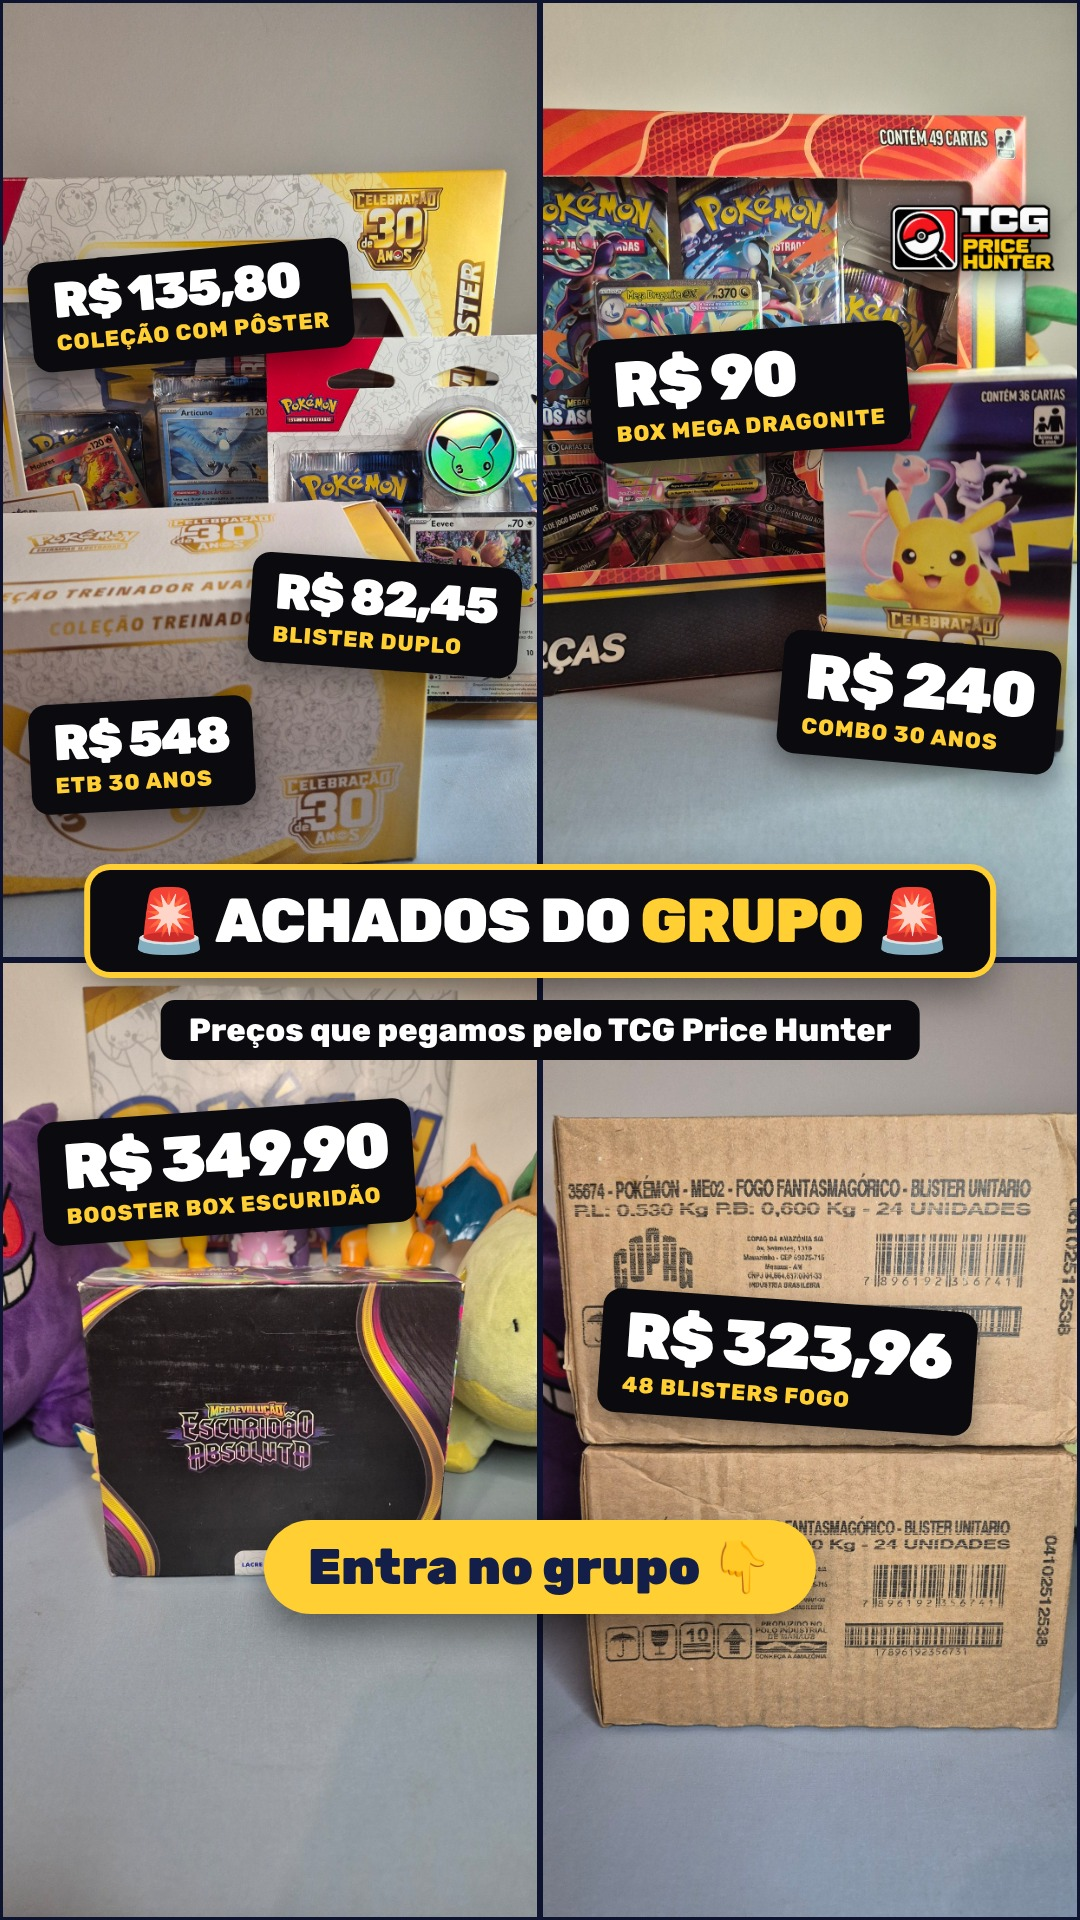
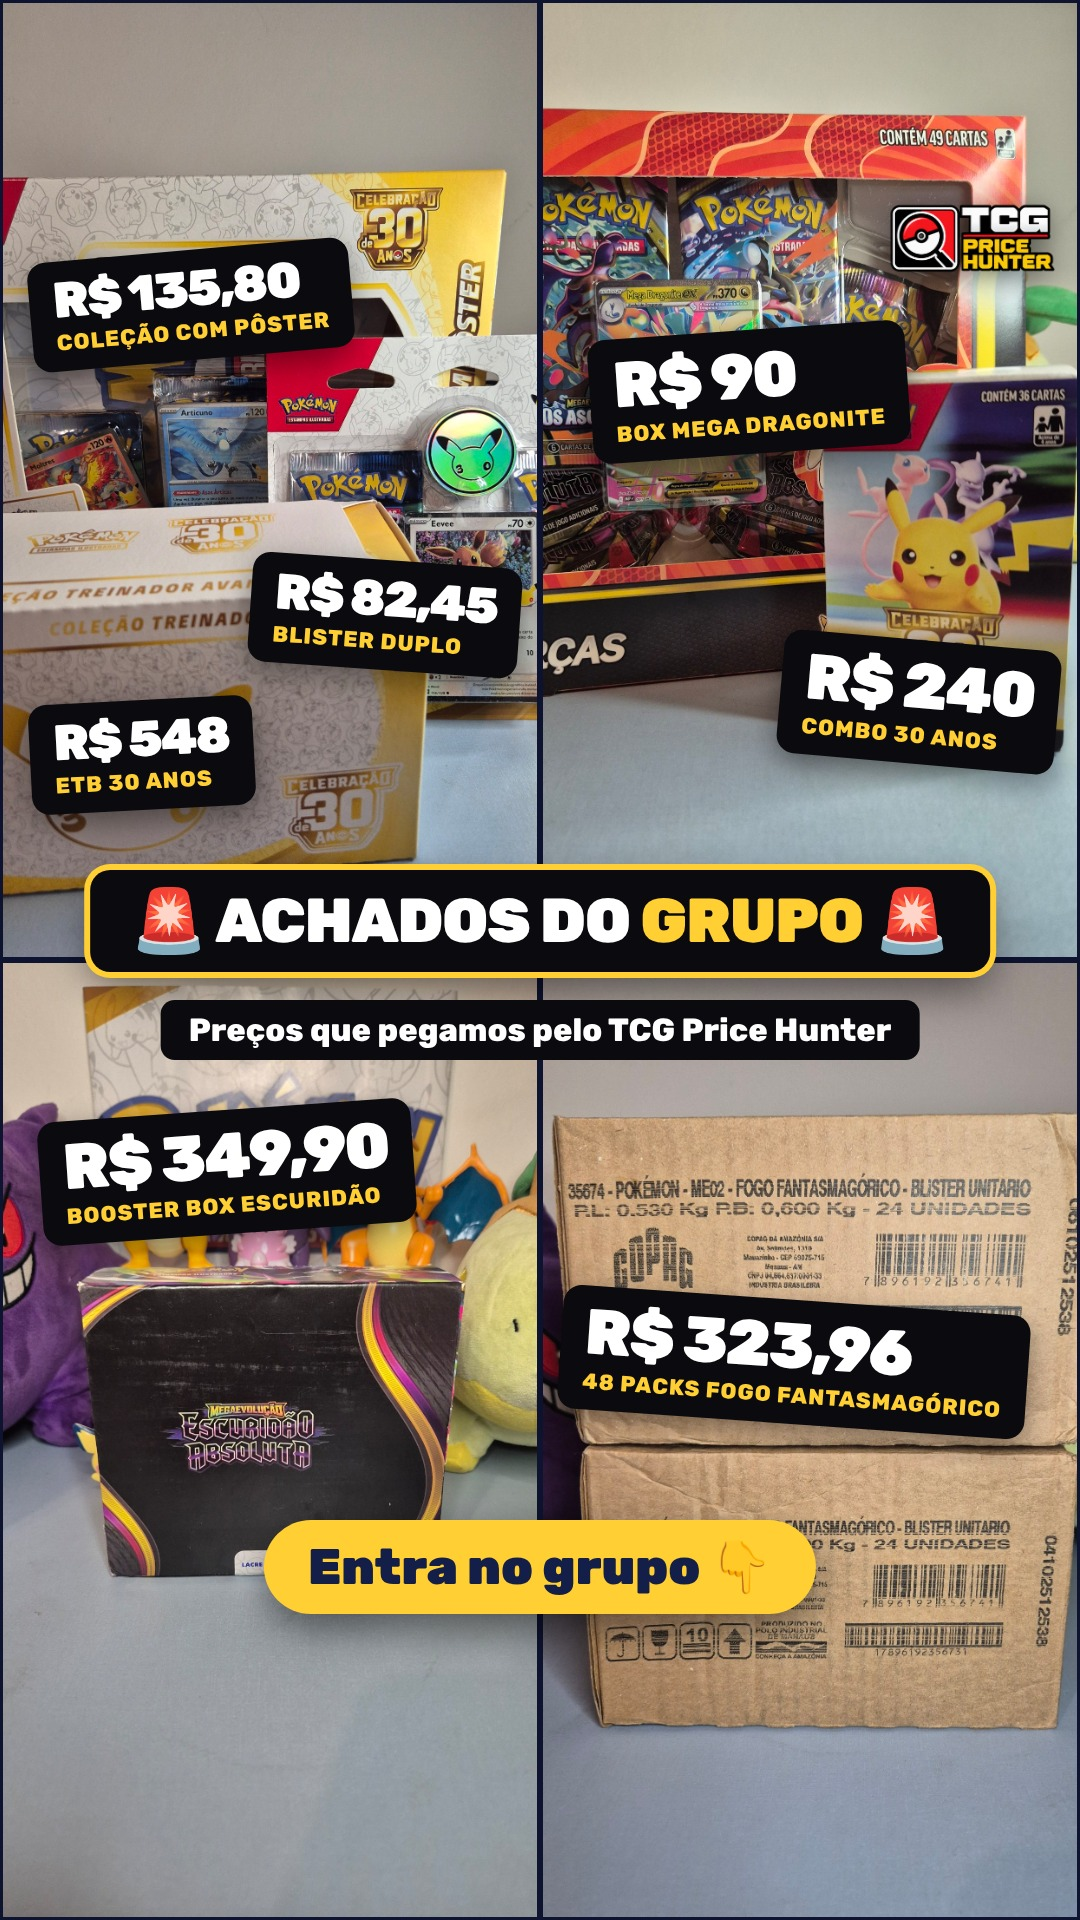
social: story achados — 48 packs
Claude-Session: https://claude.ai/code/session_01VA6kxpmt2AkLti5TivkGPm

Changed region(s): [[0.5194, 0.6562, 0.9778, 0.7812]]

diff --git a/tools/carrossel/story/achados.html b/tools/carrossel/story/achados.html
@@ -42,7 +42,7 @@ html,body{width:1080px;height:1920px;overflow:hidden;background:#0e1330;font-fam
 <!-- Escuridão -->
 <div class="tag" style="left:40px;top:1110px;transform:rotate(-4deg)"><b>R$ 349,90</b><small>Booster box Escuridão</small></div>
 <!-- Fogo -->
-<div class="tag" style="left:600px;top:1300px;transform:rotate(4deg)"><b>R$ 323,96</b><small>48 blisters Fogo</small></div>
+<div class="tag" style="left:560px;top:1300px;transform:rotate(4deg)"><b>R$ 323,96</b><small>48 packs Fogo Fantasmagórico</small></div>
 
 <div class="faixa f1">🚨 ACHADOS DO <em>GRUPO</em> 🚨</div>
 <div class="faixa f2">Preços que pegamos pelo TCG Price Hunter</div>
